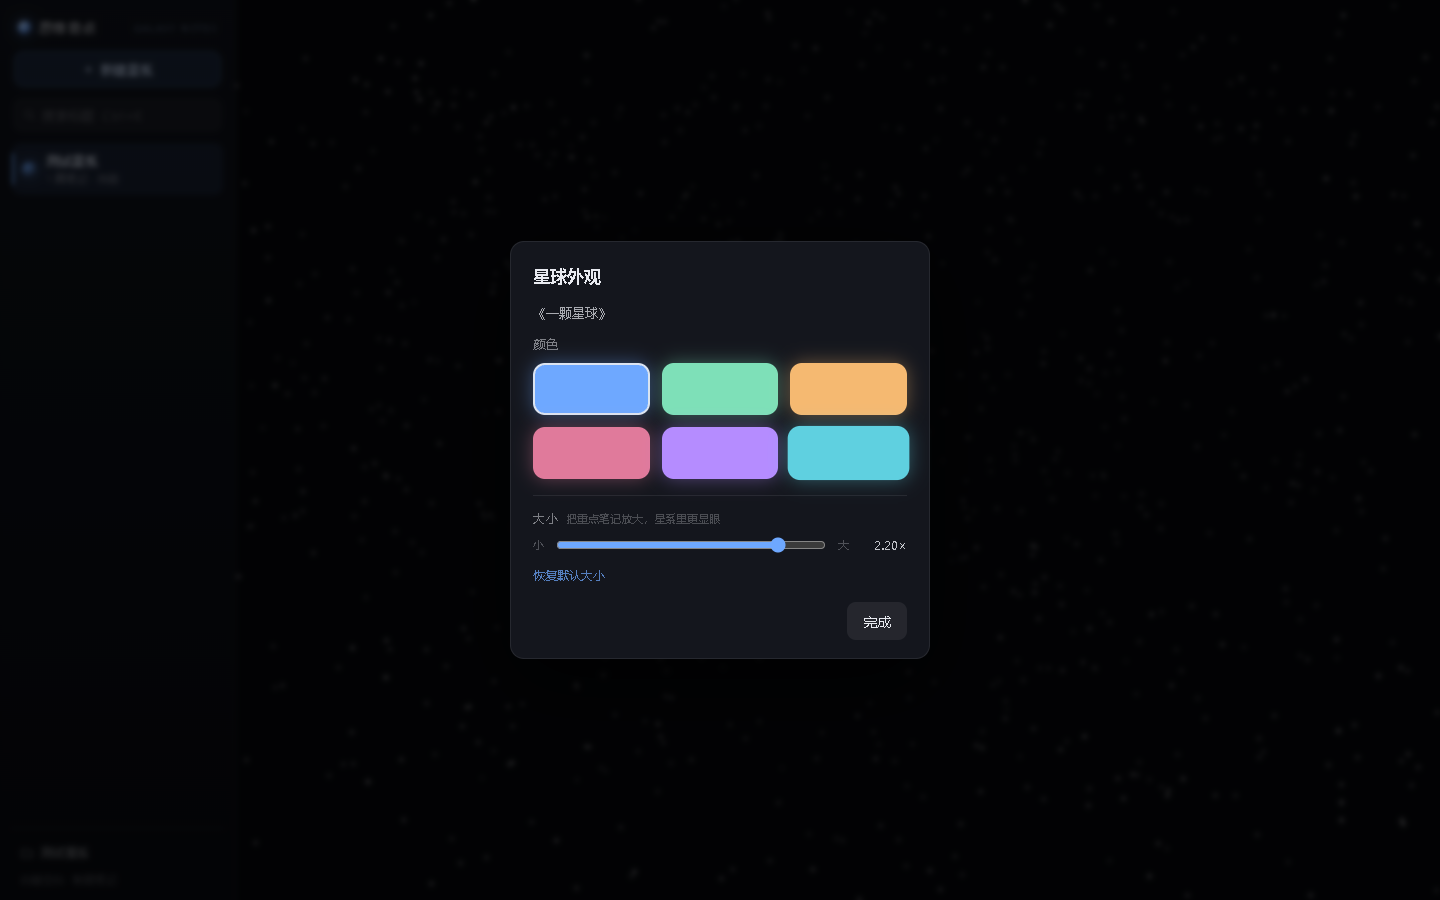
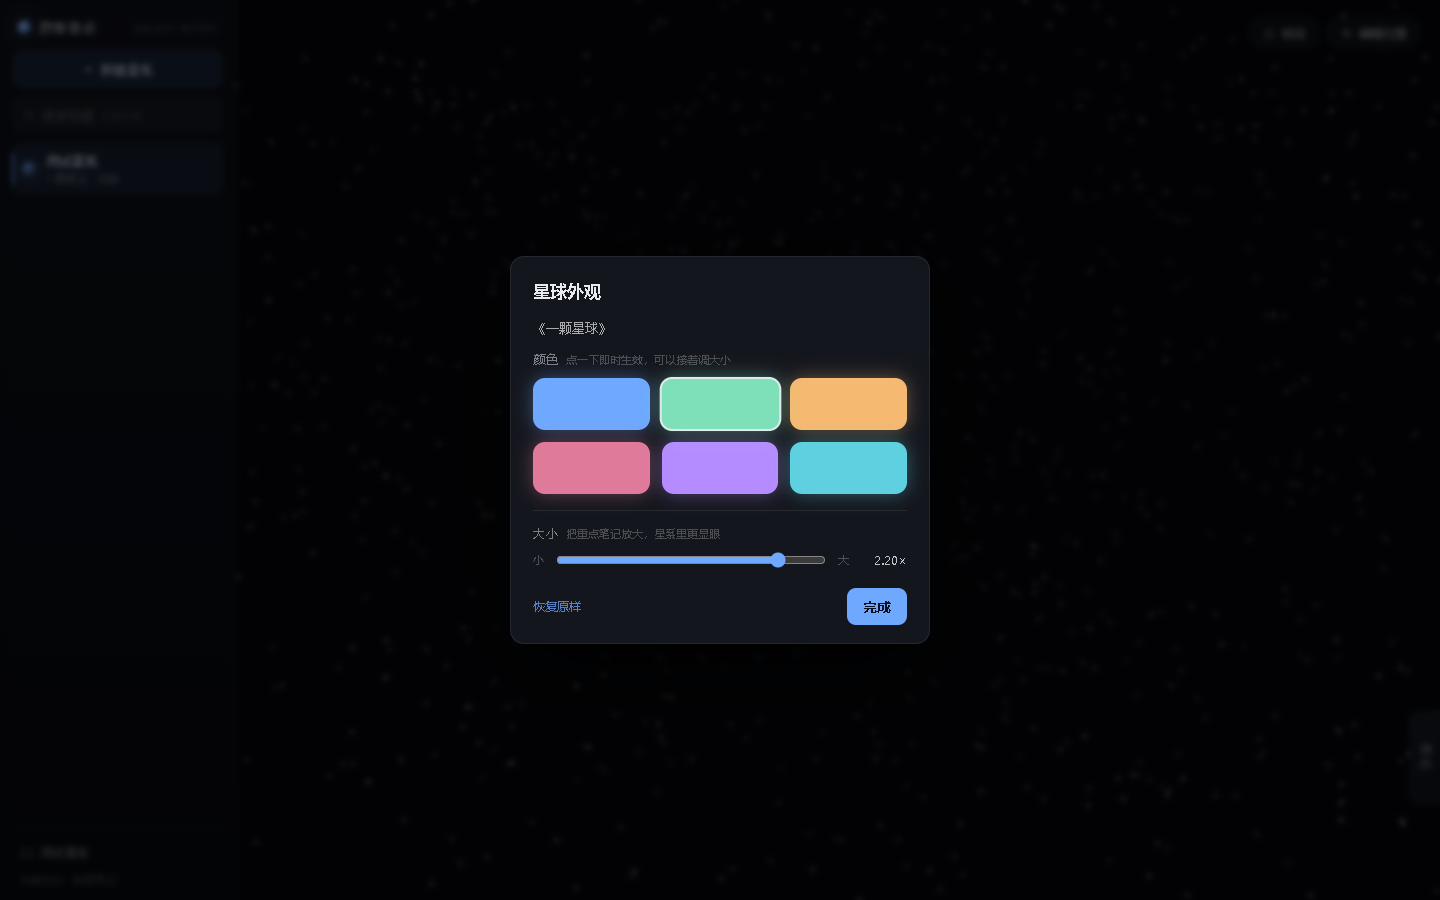
feat: 颜色和大小在同一个弹窗里一起调
- 点色块不再立即关窗：选中即生效，可以直接接着拖大小
- 底部改为「恢复原样」+「完成」：恢复会把颜色和大小一起还原到打开时的状态
- 修：切换星球时大小 state 没重置（打开 A 再打开 B 会沿用 A 的值）
- 测试：scale-test 覆盖连续调整 / 完成才关窗 / 恢复原样同时还原

diff --git a/src/components/ColorModal.tsx b/src/components/ColorModal.tsx
@@ -1,4 +1,4 @@
-import { useRef, useState } from 'react'
+import { useEffect, useRef, useState } from 'react'
 import { useVault } from '../store/vaultStore'
 import { useUi } from '../store/uiStore'
 import { Modal } from './Modal'
@@ -19,16 +19,27 @@ export function ColorModal(): JSX.Element | null {
   const [scale, setScale] = useState(note?.scale ?? 1)
   const saveTimer = useRef<number | null>(null)
   const latest = useRef(note?.scale ?? 1)
+  const initial = useRef<{ color: string; scale: number } | null>(null)
+
+  // 每次打开（换了一颗星球）都从这颗星的当前值重新开始
+  useEffect(() => {
+    if (!note) return
+    const s = note.scale ?? 1
+    setScale(s)
+    latest.current = s
+    initial.current = { color: note.color, scale: s }
+    // eslint-disable-next-line react-hooks/exhaustive-deps
+  }, [gid])
 
   if (!note) return null
 
+  /** 点色块即时生效，但不关窗——接着就能拖大小 */
   const pick = async (color: string): Promise<void> => {
     const updated = await updateNote(note.gid, { color })
     if (!updated) showToast('换色失败', 'error')
-    setGid(null)
   }
 
-  /** 拖滑条时做一点防抖，既能看到星球实时变大变小，又不会每一帧都写盘 */
+  /** 拖滑条时做一点防抖，既能看到实时变化，又不会每一帧都写盘 */
   const applyScale = (value: number): void => {
     setScale(value)
     latest.current = value
@@ -51,12 +62,30 @@ export function ColorModal(): JSX.Element | null {
     setGid(null)
   }
 
+  /** 恢复成打开这个弹窗时的样子（颜色 + 大小一起） */
+  const reset = async (): Promise<void> => {
+    if (saveTimer.current) {
+      window.clearTimeout(saveTimer.current)
+      saveTimer.current = null
+    }
+    const init = initial.current
+    if (init) {
+      setScale(init.scale)
+      latest.current = init.scale
+      await updateNote(note.gid, { color: init.color, scale: init.scale })
+    }
+    setGid(null)
+  }
+
   return (
     <Modal width={420} onBackdrop={close}>
       <div className="modal-title">星球外观</div>
       <div className="sub-note">《{note.title.trim() || UNTITLED}》</div>
 
-      <div className="field-label">颜色</div>
+      <div className="field-label">
+        颜色
+        <span className="field-hint">点一下即时生效，可以接着调大小</span>
+      </div>
       <div className="swatch-grid">
         {PALETTE.map((c) => (
           <button
@@ -91,16 +120,16 @@ export function ColorModal(): JSX.Element | null {
         <span className="scale-end">大</span>
         <span className="scale-value">{scale.toFixed(2)}×</span>
       </div>
-      <div className="scale-actions">
-        <button className="link-btn" onClick={() => applyScale(1)}>
-          恢复默认大小
-        </button>
-      </div>
 
       <div className="modal-actions">
-        <button className="btn ghost" onClick={close}>
-          完成
+        <button className="link-btn" onClick={() => void reset()}>
+          恢复原样
         </button>
+        <div className="actions-right">
+          <button className="btn primary" onClick={close}>
+            完成
+          </button>
+        </div>
       </div>
     </Modal>
   )

diff --git a/src/styles.css b/src/styles.css
@@ -1480,6 +1480,16 @@ body {
   margin-top: 18px;
 }
 
+.modal-actions .link-btn {
+  margin-right: auto;
+  align-self: center;
+}
+
+.actions-right {
+  display: flex;
+  gap: 8px;
+}
+
 .btn {
   border: none;
   border-radius: 9px;
